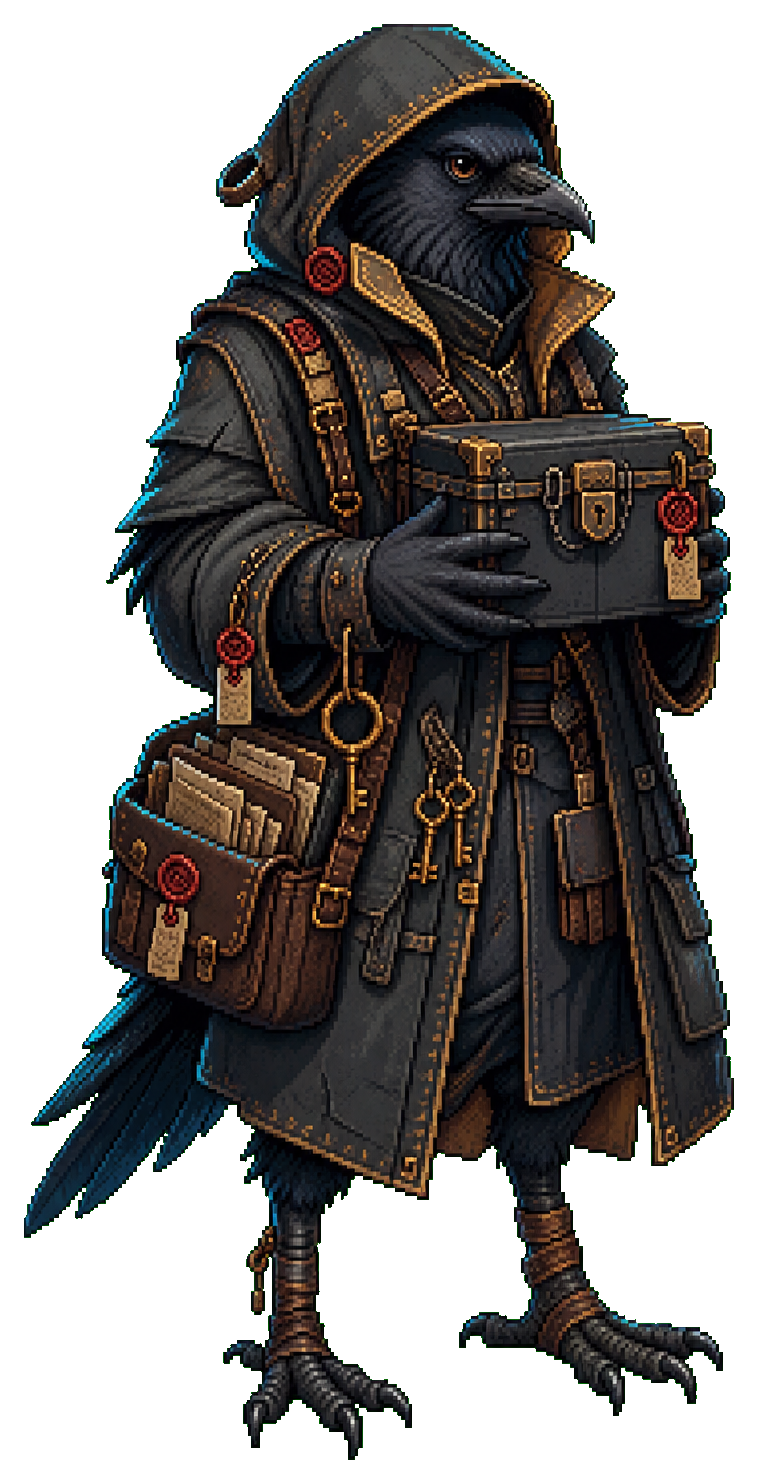
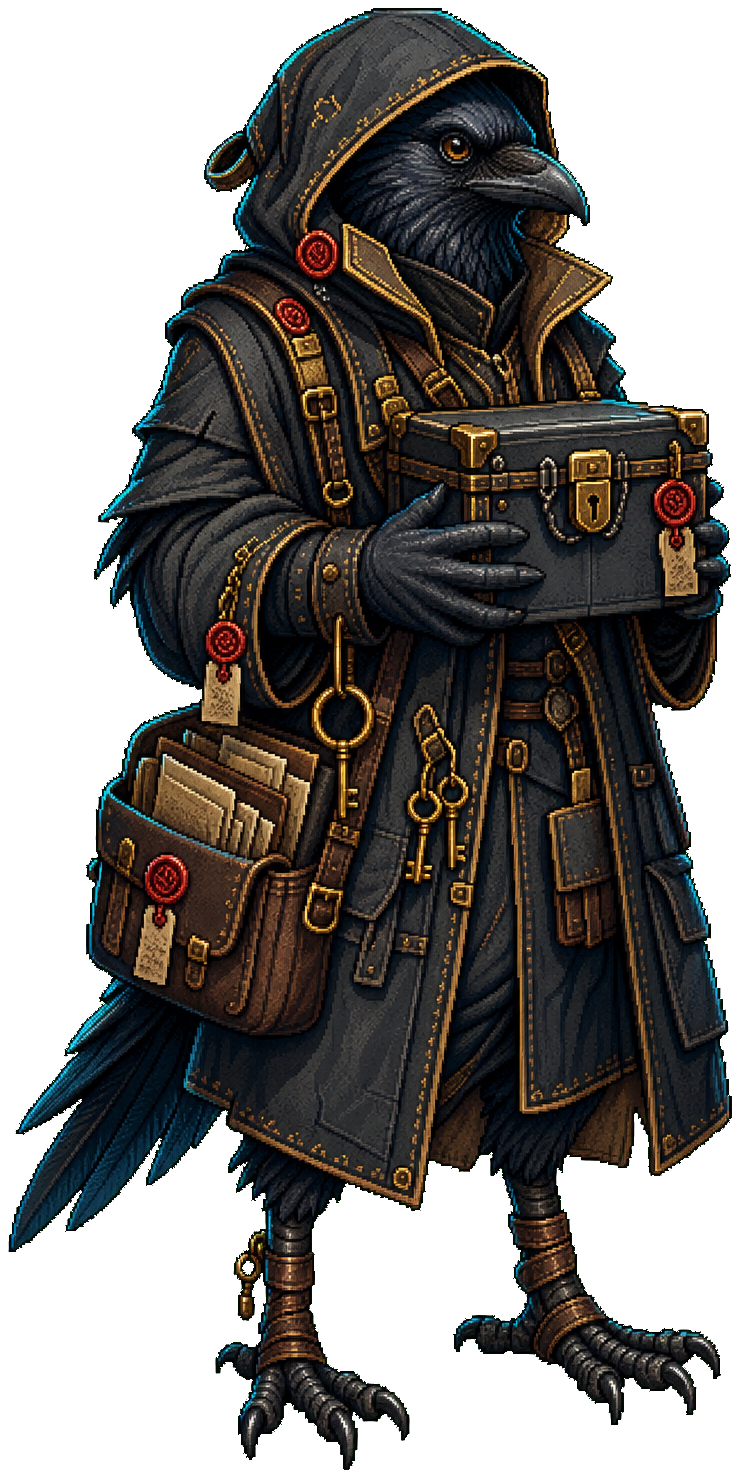
Polish route event resident art

diff --git a/src/main.ts b/src/main.ts
@@ -420,9 +420,11 @@ const CARD_REVIEW_VISIBLE_ROWS = 11;
 const CARD_REVIEW_ROW_H = 38;
 const BASE_COHESION = 36;
 const BASE_WINGBEATS = 3;
-const BASE_HAND_TARGET = 5;
+const BASE_HAND_TARGET = 4;
 const BASE_RESONANCE_CAP = 5;
 const BASE_SUPPLY_SLOTS = 2;
+const POST_COMBAT_RECOVERY = 1;
+const OVEREXTENSION_CARD_THRESHOLD = 4;
 const STARTING_SCRAP = 40;
 // Market pricing is data-driven from alpha-market.json (next-level-implementation
 // -spec "Market prices and services are data-driven").
@@ -3335,10 +3337,6 @@ class RouteScene extends Phaser.Scene {
     return node ? ROUTE_EVENT_RESIDENT_ASSETS[node.type] : undefined;
   }
 
-  private routeSetPieceCenterpieceAsset(node?: RouteNode) {
-    return node ? ROUTE_SET_PIECE_CENTERPIECE_ASSETS[node.type] : undefined;
-  }
-
   private queueRouteEventBackdropArtLoad(node?: RouteNode) {
     queueRuntimeImageAssets(
       this,
@@ -3351,17 +3349,8 @@ class RouteScene extends Phaser.Scene {
   private queueRouteEventSetPieceArtLoad(node?: RouteNode) {
     queueRuntimeImageAssets(
       this,
-      [this.routeEventBackdropAsset(node), this.routeEventResidentAsset(node), this.routeSetPieceCenterpieceAsset(node)],
+      [this.routeEventBackdropAsset(node), this.routeEventResidentAsset(node)],
       'Route event set piece art failed to load',
-      () => this.renderAll()
-    );
-  }
-
-  private queueLanternRoostKitArtLoad() {
-    queueRuntimeImageAssets(
-      this,
-      Object.values(LANTERN_ROOST_KIT_ASSETS),
-      'Lantern Roost kit art failed to load',
       () => this.renderAll()
     );
   }
@@ -5106,6 +5095,22 @@ class RouteScene extends Phaser.Scene {
     });
   }
 
+  private fitImageInside(image: Phaser.GameObjects.Image, maxWidth: number, maxHeight: number) {
+    const sourceWidth = image.width || image.frame.width || maxWidth;
+    const sourceHeight = image.height || image.frame.height || maxHeight;
+    const scale = Math.min(maxWidth / sourceWidth, maxHeight / sourceHeight);
+    image.setDisplaySize(sourceWidth * scale, sourceHeight * scale);
+    return image;
+  }
+
+  private routeSetPieceResidentFrame(node: RouteNode) {
+    if (node.type === 'nest') {
+      return { x: 190, y: GAME_HEIGHT + 70, maxWidth: 420, maxHeight: 590 };
+    }
+
+    return { x: 176, y: GAME_HEIGHT + 42, maxWidth: 340, maxHeight: 500 };
+  }
+
   private renderLanternRoostOverlay(node: RouteNode) {
     const choices = this.nodeChoiceList(node);
     const accent = routeEventAccent(node.type);
@@ -5113,7 +5118,6 @@ class RouteScene extends Phaser.Scene {
     const background = this.routeEventBackdropAsset(node);
     const resident = this.routeEventResidentAsset(node);
     this.queueRouteEventSetPieceArtLoad(node);
-    this.queueLanternRoostKitArtLoad();
 
     if (background && this.textures.exists(background.key)) {
       this.add.image(GAME_WIDTH / 2, GAME_HEIGHT / 2, background.key)
@@ -5123,17 +5127,6 @@ class RouteScene extends Phaser.Scene {
         .setInteractive({ useHandCursor: false });
     } else {
       this.renderRouteEventBackdrop(node, 1);
-    }
-
-    if (this.textures.exists(LANTERN_ROOST_KIT_ASSETS.hearth.key)) {
-      this.add.image(664, 438, LANTERN_ROOST_KIT_ASSETS.hearth.key)
-        .setDisplaySize(420, 236)
-        .setAlpha(0.72);
-    }
-    if (this.textures.exists(LANTERN_ROOST_KIT_ASSETS.sign.key)) {
-      this.add.image(268, 338, LANTERN_ROOST_KIT_ASSETS.sign.key)
-        .setDisplaySize(180, 88)
-        .setAlpha(0.94);
     }
 
     this.add.rectangle(GAME_WIDTH / 2, 24, GAME_WIDTH - 100, 2, accent, 0.38);
@@ -5169,10 +5162,10 @@ class RouteScene extends Phaser.Scene {
     this.renderLanternRoostResourceTag(118, 96);
 
     if (resident && this.textures.exists(resident.key)) {
-      this.add.image(154, GAME_HEIGHT + 58, resident.key)
+      const residentImage = this.add.image(196, GAME_HEIGHT + 58, resident.key)
         .setOrigin(0.5, 1)
-        .setDisplaySize(350, 430)
         .setAlpha(1);
+      this.fitImageInside(residentImage, 380, 460);
     } else {
       this.add.circle(164, 438, 82, 0x1c2230, 0.98)
         .setStrokeStyle(2, accent, 0.82);
@@ -5201,22 +5194,8 @@ class RouteScene extends Phaser.Scene {
     const startY = 286;
     choices.forEach((choice, index) => {
       const y = startY + index * 112;
-      this.renderLanternRoostChoiceProp(choice.key, 746, y);
       this.renderSetPieceChoice(choice, choiceX, y, index, accent, 76, false);
     });
-  }
-
-  private renderLanternRoostChoiceProp(choiceKey: string, x: number, y: number) {
-    const props: Record<string, { asset: RuntimeImageAsset; w: number; h: number; dx: number; dy: number }> = {
-      recover: { asset: LANTERN_ROOST_KIT_ASSETS.rainPipe, w: 118, h: 118, dx: -12, dy: 0 },
-      take_shelter: { asset: LANTERN_ROOST_KIT_ASSETS.awning, w: 164, h: 92, dx: -2, dy: -2 },
-      refill_supplies: { asset: LANTERN_ROOST_KIT_ASSETS.wrappedSnack, w: 112, h: 98, dx: -10, dy: 0 }
-    };
-    const prop = props[choiceKey];
-    if (!prop || !this.textures.exists(prop.asset.key)) return;
-    this.add.image(x + prop.dx, y + prop.dy, prop.asset.key)
-      .setDisplaySize(prop.w, prop.h)
-      .setAlpha(0.98);
   }
 
   private renderLanternRoostResourceTag(x: number, y: number) {
@@ -5287,22 +5266,15 @@ class RouteScene extends Phaser.Scene {
     }).setOrigin(0.5);
 
     if (resident && this.textures.exists(resident.key)) {
-      this.add.image(176, GAME_HEIGHT + 22, resident.key)
+      const residentFrame = this.routeSetPieceResidentFrame(node);
+      const residentImage = this.add.image(residentFrame.x, residentFrame.y, resident.key)
         .setOrigin(0.5, 1)
-        .setDisplaySize(310, 372)
         .setAlpha(0.98);
+      this.fitImageInside(residentImage, residentFrame.maxWidth, residentFrame.maxHeight);
     } else {
       this.add.circle(176, 438, 82, 0x1c2230, 0.98)
         .setStrokeStyle(2, accent, 0.82);
       this.renderRouteNodeTypeIcon(node.type, 176, 438, 96);
-    }
-
-    const centerpiece = this.routeSetPieceCenterpieceAsset(node);
-    const centerpieceLayout = ROUTE_SET_PIECE_CENTERPIECE_LAYOUTS[node.type] ?? { x: 548, y: 380, w: 370, h: 280 };
-    if (centerpiece && this.textures.exists(centerpiece.key)) {
-      this.add.image(centerpieceLayout.x, centerpieceLayout.y, centerpiece.key)
-        .setDisplaySize(centerpieceLayout.w, centerpieceLayout.h)
-        .setAlpha(0.98);
     }
 
     this.add.rectangle(258, 594, 342, 88, 0x06101a, 0.97)
@@ -10143,6 +10115,7 @@ class BattleScene extends Phaser.Scene {
       this.flock.exposedTurns = 1;
       this.logEvent('The flock sheds out of Molt — Open Sky.');
     }
+    this.applyOverextensionPenalty();
     const hpBeforeEnemyTurn = this.flock.hp;
     this.resolveEnemyTurn();
     if (this.flock.hp >= hpBeforeEnemyTurn) this.checkNoDamageTurnMarks();
@@ -10181,6 +10154,17 @@ class BattleScene extends Phaser.Scene {
     this.time.delayedCall(900, () => {
       if (this.mode === 'battle') banner(this, this.fxLayer, GAME_WIDTH / 2, 140, 'Your Turn', '#8fd6a0');
     });
+  }
+
+  private applyOverextensionPenalty() {
+    if (this.cardsPlayedThisTurn < OVEREXTENSION_CARD_THRESHOLD || this.flock.exposed) return;
+    this.flock.exposed = true;
+    this.flock.exposedTurns = Math.max(this.flock.exposedTurns, 1);
+    this.logEvent(`${this.cardsPlayedThisTurn} cards overextend the formation - Open Sky.`);
+    if (this.fxLayer?.active) {
+      floatingText(this, this.fxLayer, FLOCK_FX_X, FLOCK_FX_Y - 50, 'Overextended!', '#ff9d4d');
+      this.pulseRing(FLOCK_FX_X, FLOCK_FX_Y - 20, 0xff9d4d, 92, 580);
+    }
   }
 
   private resolveEnemyTurn() {
@@ -10614,7 +10598,7 @@ class BattleScene extends Phaser.Scene {
       leaderId: this.runLeaderId,
       difficulty: this.runDifficulty,
       seed: activeSeed,
-      currentHp: Math.min(this.flock.maxHp, this.flock.hp + 3),
+      currentHp: Math.min(this.flock.maxHp, this.flock.hp + POST_COMBAT_RECOVERY),
       scrap: this.scrap,
       routeMarks: [...this.routeMarks],
       supplies: [...this.runSupplies],
@@ -10685,7 +10669,7 @@ class BattleScene extends Phaser.Scene {
 
   private drawToHandSize() {
     const plumesKeystone = this.keystoneActive('plumes') ? 1 : 0; // Plumes keystone: +1 hand size
-    this.drawCards(Math.max(0, 5 + plumesKeystone + (this.flockStats().draw ?? 0) + this.nextTurnDrawBonus - this.hand.length));
+    this.drawCards(Math.max(0, BASE_HAND_TARGET + plumesKeystone + (this.flockStats().draw ?? 0) + this.nextTurnDrawBonus - this.hand.length));
     this.nextTurnDrawBonus = 0;
   }
 

diff --git a/tests/smoke.spec.ts b/tests/smoke.spec.ts
@@ -583,38 +583,27 @@ test('route event overlays render generated special-node backdrops', async ({ pa
       {
         type: 'basin',
         key: 'route-event-lantern-roost-shelter',
-        residentKey: 'route-event-resident-sella-warmwick',
-        extraKeys: [
-          'route-event-lantern-roost-hearth',
-          'route-event-lantern-roost-sign',
-          'route-event-lantern-roost-rain-pipe',
-          'route-event-lantern-roost-awning',
-          'route-event-lantern-roost-wrapped-snack'
-        ]
+        residentKey: 'route-event-resident-sella-warmwick'
       },
       {
         type: 'cache',
         key: 'route-event-rooftop-cache-office',
-        residentKey: 'route-event-resident-marn-valeclip',
-        extraKeys: ['route-event-centerpiece-rooftop-cache-cabinet']
+        residentKey: 'route-event-resident-marn-valeclip'
       },
       {
         type: 'signal',
         key: 'route-event-signal-switchboard',
-        residentKey: 'route-event-resident-ivo-tallymast',
-        extraKeys: ['route-event-centerpiece-signal-route-switchboard']
+        residentKey: 'route-event-resident-ivo-tallymast'
       },
       {
         type: 'nest',
         key: 'route-event-featherwright-studio',
-        residentKey: 'route-event-resident-oren-shearbright',
-        extraKeys: ['route-event-centerpiece-featherwright-chair-press']
+        residentKey: 'route-event-resident-oren-shearbright'
       },
       {
         type: 'rival',
         key: 'route-event-rival-wager-board',
-        residentKey: 'route-event-resident-caldra-pinion',
-        extraKeys: ['route-event-centerpiece-rival-contract-prize-board']
+        residentKey: 'route-event-resident-caldra-pinion'
       },
       { type: 'market', key: 'market-kit-background' }
     ];
@@ -1889,12 +1878,48 @@ test('flock composition keystone: a Plumes-heavy flock activates its aura (+1 dr
     return {
       plumes: s.flockSuitCounts().plumes,
       keystone: s.keystoneActive('plumes'),
-      handSize: s.hand.length, // base 5 + keystone 1 (+ any deck draw bonus)
+      handSize: s.hand.length, // base 4 + keystone 1 (+ any deck draw bonus)
     };
   });
   expect(r.plumes).toBeGreaterThanOrEqual(5);
   expect(r.keystone).toBe(true);
-  expect(r.handSize).toBeGreaterThanOrEqual(6); // keystone added at least +1 over the base 5
+  expect(r.handSize).toBeGreaterThanOrEqual(6); // keystone plus deck draw keeps Plumes hands wider
+});
+
+test('playing four or more cards overextends the flock into Open Sky', async ({ page }) => {
+  await boot(page);
+  const r = await page.evaluate(async () => {
+    const wait = (ms: number) => new Promise((res) => setTimeout(res, ms));
+    const g = window.__birdSquadGame;
+    g.scene.start('BattleScene', { routeNodeId: 'm1_entry' });
+    g.scene.stop('MenuScene');
+    const s: any = g.scene.getScene('BattleScene');
+    for (let i = 0; i < 30 && !(s.enemies && s.enemies.length && s.hand && s.hand.length && s.fxLayer); i += 1) await wait(50);
+
+    s.flock.exposed = false;
+    s.flock.exposedTurns = 0;
+    s.flock.openSkyGuard = 0;
+    s.cardsPlayedThisTurn = 3;
+    s.applyOverextensionPenalty();
+    const safe = { exposed: s.flock.exposed, turns: s.flock.exposedTurns };
+
+    s.cardsPlayedThisTurn = 4;
+    s.applyOverextensionPenalty();
+    const overextended = { exposed: s.flock.exposed, turns: s.flock.exposedTurns, log: s.log.at(-1) };
+
+    s.flock.hp = 30;
+    s.flock.block = 0;
+    s.enemies[0].damageBonus = 0;
+    s.enemies[0].nextAttackBonus = 0;
+    s.damageFlock(s.enemies[0], 5);
+    return { safe, overextended, hpAfterHit: s.flock.hp };
+  });
+
+  expect(r.safe.exposed).toBe(false);
+  expect(r.overextended.exposed).toBe(true);
+  expect(r.overextended.turns).toBe(1);
+  expect(r.overextended.log).toContain('overextend');
+  expect(r.hpAfterHit).toBe(24); // 5 base + 1 Standard Open Sky bonus
 });
 
 test('Resonance has real sinks: a threshold gate and a spend-all burst', async ({ page }) => {

diff --git a/progress.md b/progress.md
@@ -539,5 +539,30 @@ Original prompt: make it happen, can you wire the found artifacts in an appropri
 - Scrap icon scale follow-up: increased the Scrap icon display sizes across route rail, reward badges, market tags, route-event resource tags, and combat HUD, with small text offsets to keep labels and numbers clear.
 - Verification: `npm run build`, required `develop-web-game` client on built preview `http://127.0.0.1:5651/`, and screenshot inspection at `.artifacts/test-results/scrap-icon-larger-ui/route-scrap-icon-larger.png`, `.artifacts/test-results/scrap-icon-larger-ui/market-scrap-icon-larger.png`, and `.artifacts/test-results/scrap-icon-larger-ui/combat-scrap-icon-larger.png`. Only WebGL `ReadPixels` screenshot performance warnings appeared.
 
+- Scrap icon simplification pass: generated a clearer imagegen direction for Scrap around one dominant brass washer/token silhouette with only a few supporting metal and copper-wire details, then kept the already-wired runtime source focused on that simpler high-contrast read instead of the earlier busy scrap pile. The built-in imagegen result rendered in-thread but was not exposed as a usable filesystem export in this environment.
+- Verification: `npm run validate:runtime-assets`, `npm run build`, required `develop-web-game` client on built preview `http://127.0.0.1:5651/`, and screenshot inspection at `.artifacts/test-results/scrap-icon-simple-ui/route-scrap-icon-simple.png`, `.artifacts/test-results/scrap-icon-simple-ui/market-scrap-icon-simple.png`, and `.artifacts/test-results/scrap-icon-simple-ui/combat-scrap-icon-simple.png`. Only WebGL `ReadPixels` screenshot performance warnings appeared.
+
+- Scrap icon high-detail reference pass: used the supplied washer/shard/copper-wire Scrap icon as the reference silhouette, generated a higher-detail imagegen edit direction, and replaced the project Scrap art with a transparent 4096px source plus a 1024px runtime WebP that keeps the same composition while adding richer brass bevels, pitting, shard facets, cyan rim light, magenta chips, and copper-wire highlights. Preserved the supplied reference at `assets/concept-art/supplies/sources/scrap-icon-user-reference.png`.
+- Verification: visual inspection of `assets/concept-art/supplies/sources/scrap-icon-source-v4.png` and `assets/runtime/supplies/icons/scrap.webp`, `npm run validate:runtime-assets`, `npm run build`, and required `develop-web-game` client on `http://127.0.0.1:5651/` with screenshot `.artifacts/test-results/scrap-icon-detailed-client/shot-0.png`.
+
+- Scrap icon green-screen cleanup pass: used `C:/Users/Will/Desktop/scrap.png` as the final Scrap source, removed the flat green background with the imagegen chroma-key helper, centered the transparent cutout on a larger square canvas, and exported a 4096px source plus a larger 1536px runtime WebP under the existing Scrap texture path. Preserved the supplied green-screen file at `assets/concept-art/supplies/sources/scrap-icon-user-reference-v2.png`.
+- Verification: visual inspection of `assets/runtime/supplies/icons/scrap.webp`, `npm run validate:runtime-assets`, `npm run build`, and required `develop-web-game` client on `http://127.0.0.1:5651/` with route HUD screenshot `.artifacts/test-results/scrap-icon-cleanup-client/shot-1.png`.
+
 - Actual route-event imagegen asset replacement: replaced the earlier playable source-reference route-event scene/resident pass with the supplied Desktop image-generated PNG exports for Lantern Roost, Rooftop Cache, Signal Landmark, Featherwright Studio, and Rival Wager. The full scene sources are preserved under `assets/concept-art/route-events/**`, resident chroma sources and transparent alpha review files are preserved beside them, and the runtime `assets/runtime/route-events/*-v2/v3.webp` files now come from those supplied images.
 - Contact sheets for the actual supplied imagegen assets: `.artifacts/route-event-scenes-actual-imagegen-contact.jpg` and `.artifacts/route-event-residents-actual-imagegen-contact.jpg`.
+
+- Route-event composition simplification: removed the separate in-scene set-piece item overlays from Lantern Roost, Rooftop Cache, Signal Landmark, Featherwright Studio, and Rival Wager so each visit is now composed from the full background scene plate plus the personality cutout only. Resident art now fits inside its placement bounds while preserving the generated image's natural aspect ratio instead of stretching every bird into the same rectangle.
+- Verification: `node tools/validate-runtime-asset-sizes.mjs`, `npm run validate:runtime`, `npm run build`, focused Playwright route-event and route-choice tests, required `develop-web-game` client on built preview `http://127.0.0.1:5655/`, and visual inspection of `.artifacts/route-events-bg-personality-only/route-events-bg-personality-only-contact.jpg`.
+
+- Marn Valeclip art replacement: updated Rooftop Cache's resident art from the supplied `C:\Users\Will\Desktop\2-2.png`, preserving the chroma source, regenerating the transparent alpha review PNG, and replacing `assets/runtime/route-events/marn-valeclip-v2.webp`. The cleanup pass tightened the green-screen matte and despill while preserving the cyan rim-light and natural tall character ratio.
+- Verification: `node tools/validate-runtime-asset-sizes.mjs`, `npm run validate:runtime`, `npm run build`, focused Playwright route-event test, required `develop-web-game` client on built preview `http://127.0.0.1:5656/`, alpha preview `.artifacts/marn-valeclip-v2-cleanup-preview.png`, and in-game Rooftop Cache screenshot `.artifacts/marn-valeclip-v2-update/rooftop-cache-marn-v2-update.png`.
+
+- Oren Shearbright art replacement and layout polish: replaced Featherwright Studio's resident source with the supplied cleaned `C:\Users\Will\Desktop\4-2.png`, regenerated the chroma source, transparent alpha review PNG, and `assets/runtime/route-events/oren-shearbright-v2.webp`, then gave Nest events a larger resident frame while preserving Oren's natural tall ratio. Sella Warmwick's Lantern Roost resident placement also shifted right to sit better in the shelter composition.
+- Verification: `node tools/validate-runtime-asset-sizes.mjs`, `npm run validate:runtime`, `npm run build`, focused Playwright route-event test, required `develop-web-game` client on built preview `http://127.0.0.1:5657/`, alpha preview `.artifacts/oren-shearbright-v3-cleanup-preview.png`, and in-game screenshots `.artifacts/route-event-qa/oren-shearbright-cleaned-larger.png` plus `.artifacts/route-event-qa/sella-warmwick-shifted-right.png`.
+
+- New user prompt: review the game's balance because it feels too easy and card spam makes decisions less meaningful.
+- First combat-balance pass: lowered base hand target from 5 to 4, added an overextension pressure valve where playing 4+ cards before Roost puts the flock into Open Sky for the enemy phase, and reduced automatic post-combat recovery from +3 to +1 Cohesion. Intent: preserve card identities while making the fourth card and route sustain choices matter more.
+- Added smoke coverage for the overextension breakpoint and updated alpha/core design docs to document the new hand target, anti-spam rule, and lighter passive recovery.
+
+- Scrap icon gear readability pass: replaced the busier washer-pile runtime with the supplied `C:/Users/Will/Desktop/scrap-2.png` gear silhouette, removed the green screen with the imagegen chroma-key helper, exported a transparent 4096px source and 768px runtime WebP, and preserved the supplied reference at `assets/concept-art/supplies/sources/scrap-icon-user-reference-v3.png`. The gear ring reads more clearly in the 30-34px Scrap HUD slots while retaining the metal plate and copper-wire scrap cues.
+- Verification: visual inspection of `assets/runtime/supplies/icons/scrap.webp`, simulated 32px preview `.artifacts/test-results/scrap-icon-gear-readable/scrap-gear-32x.png`, `npm run validate:runtime-assets`, `npm run build`, and required `develop-web-game` client on `http://127.0.0.1:5651/` with route HUD screenshot `.artifacts/test-results/scrap-icon-gear-client/shot-1.png`.

diff --git a/docs/game/non-battle-set-piece-art-briefs.md b/docs/game/non-battle-set-piece-art-briefs.md
@@ -18,18 +18,18 @@ Generated assets should be decomposed like the market where useful: background, 
 
 ## Implementation Status
 
-The playable set-piece pass uses decomposed route-event assets: individual scene plates for each landmark, chroma-key source PNGs for each resident, alpha-source PNGs for review, and transparent runtime WebPs for in-game composition.
+The playable set-piece pass uses scene-and-resident route-event assets: individual scene plates for each landmark, chroma-key source PNGs for each resident, alpha-source PNGs for review, and transparent resident runtime WebPs for in-game composition.
 
-| Encounter | Current Backdrop | Current Resident Art | Centerpiece Props |
+| Encounter | Current Backdrop | Current Resident Art | Scene Focus |
 | --- | --- | --- | --- |
-| Lantern Roost | `route-events/lantern-roost-shelter-v3.webp` | `route-events/sella-warmwick-v2.webp` | `route-events/lantern-roost-hearth-v1.webp`, `route-events/lantern-roost-sign-v1.webp`, `route-events/lantern-roost-rain-pipe-v1.webp`, `route-events/lantern-roost-awning-v1.webp`, `route-events/lantern-roost-wrapped-snack-v1.webp` |
-| Rooftop Cache | `route-events/rooftop-cache-office-v2.webp` | `route-events/marn-valeclip-v2.webp` | `route-events/rooftop-cache-cabinet-v1.webp` |
-| Signal Landmark | `route-events/signal-switchboard-v2.webp` | `route-events/ivo-tallymast-v2.webp` | `route-events/signal-route-switchboard-v1.webp` |
-| Featherwright Studio | `route-events/featherwright-studio-v2.webp` | `route-events/oren-shearbright-v2.webp` | `route-events/featherwright-chair-press-v1.webp` |
-| Rival Wager | `route-events/rival-wager-board-v2.webp` | `route-events/caldra-pinion-v2.webp` | `route-events/rival-contract-prize-board-v1.webp` |
+| Lantern Roost | `route-events/lantern-roost-shelter-v3.webp` | `route-events/sella-warmwick-v2.webp` | Heated brass roost hearth integrated into the background |
+| Rooftop Cache | `route-events/rooftop-cache-office-v2.webp` | `route-events/marn-valeclip-v2.webp` | Sealed pulley cache cabinet integrated into the background |
+| Signal Landmark | `route-events/signal-switchboard-v2.webp` | `route-events/ivo-tallymast-v2.webp` | Illuminated switchboard route map integrated into the background |
+| Featherwright Studio | `route-events/featherwright-studio-v2.webp` | `route-events/oren-shearbright-v2.webp` | Grooming chair and feather press integrated into the background |
+| Rival Wager | `route-events/rival-wager-board-v2.webp` | `route-events/caldra-pinion-v2.webp` | Contract case and prize board integrated into the background |
 
 Each resident's source folder includes `*-chroma-source.png` on a flat green background and `*-alpha-source.png` for transparent review. Rival now uses its set-piece overlay as a pre-battle wager stop: the player can take Caldra's wager to enter the rival battle or decline and move on.
 
-Lantern Roost is the first completed scene in this set-piece pass. It now uses a dedicated scene plate, Sella Warmwick's decomposed resident cutout, separate hearth/sign prop art, and choice-specific rain pipe/awning/wrapped snack props so the Basin visit feels like a landmark stop rather than the generic route-event layout.
+Lantern Roost is the first completed scene in this set-piece pass. It now uses a dedicated scene plate and Sella Warmwick's decomposed resident cutout so the Basin visit feels like a landmark stop rather than the generic route-event layout.
 
-The current scene and resident pass uses the supplied image-generated Desktop exports (`1.png`/`1-1.png` through `5.png`/`5-1.png`) as the canonical art source. Full scene PNGs are preserved in the matching concept-art folders and exported as opaque runtime WebPs; each resident keeps the original chroma-source PNG, a transparent alpha-source review PNG, and a transparent runtime WebP. Rooftop Cache, Signal Landmark, Featherwright Studio, and Rival Wager render their centerpieces as separate transparent runtime assets on top of their scene plates.
+The current scene and resident pass uses the supplied image-generated Desktop exports (`1.png`/`1-1.png` through `5.png`/`5-1.png`) as the canonical art source. Full scene PNGs are preserved in the matching concept-art folders and exported as opaque runtime WebPs; each resident keeps the original chroma-source PNG, a transparent alpha-source review PNG, and a transparent runtime WebP. The in-game presentation intentionally uses only the opaque scene plate plus the resident cutout so the landmark art stays visible and uncluttered.

diff --git a/docs/game/alpha-run-spec.md b/docs/game/alpha-run-spec.md
@@ -116,7 +116,7 @@ Minimum route requirements:
 | --- | ---: |
 | Starting Cohesion | 36 |
 | Starting Wingbeats | 3 |
-| Starting hand target | 5 |
+| Starting hand target | 4 |
 | Starting Resonance cap | 5 |
 | Starting Scrap | 60 |
 | Supply slots | 2 |
@@ -541,6 +541,11 @@ Choose one of 3:
 If players consistently reach the boss at full Cohesion, route pressure is too
 low. If players reach the boss unable to survive one Heavy Strike, route
 pressure is too high.
+
+Standard combat uses a soft anti-spam pressure valve: playing 4 or more cards
+before choosing Roost overextends the flock into Open Sky for the enemy phase.
+Automatic post-combat recovery is intentionally light (+1 Cohesion) so Basin,
+Supply, and Cover decisions carry more of the sustain burden.
 
 ## Implementation Order
 

diff --git a/docs/game/core-gameplay-spec.md b/docs/game/core-gameplay-spec.md
@@ -69,10 +69,11 @@ conversion, intent delay/freeze, temporary cards, or all-four-suits payoffs.
 
 1. Start player turn.
 2. Clear old Cover.
-3. Draw to hand size 5, plus any Draw stat bonus.
+3. Draw to hand size 4, plus any Draw stat bonus.
 4. Set Wingbeats to 3, plus any turn modifiers.
 5. Show enemy Tells.
-6. Player plays cards until done or out of Wingbeats.
+6. Player plays cards until done or out of Wingbeats. Playing 4 or more cards
+   before Roost overextends the flock into Open Sky for the enemy phase.
 7. Player chooses `Roost`.
 8. Enemies resolve their Tells.
 9. Status durations tick.
